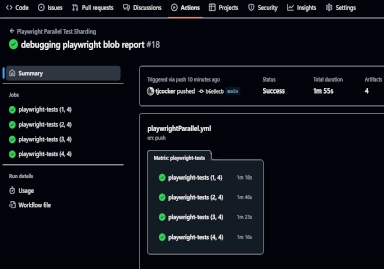
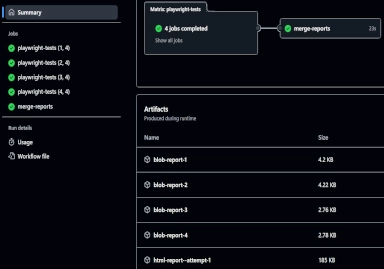
index updates

diff --git a/index.html b/index.html
@@ -103,7 +103,7 @@
 						<a href="images/pwSharding.webp" class="image featured"><img src="images/pwShardingSmall.webp"
 								alt="Playwright Parallel Sharding" /></a>
 						<h3>Playwright Parallel Test Sharding</h3>
-						<p><b>Running parallel browser tests as separate jobs in GitHub Actions</b></p>
+						<p><b>Running parallel browser tests as separate jobs in GitHub Actions and merging the reports</b></p>
 					</article><br>
 				</div>
 
